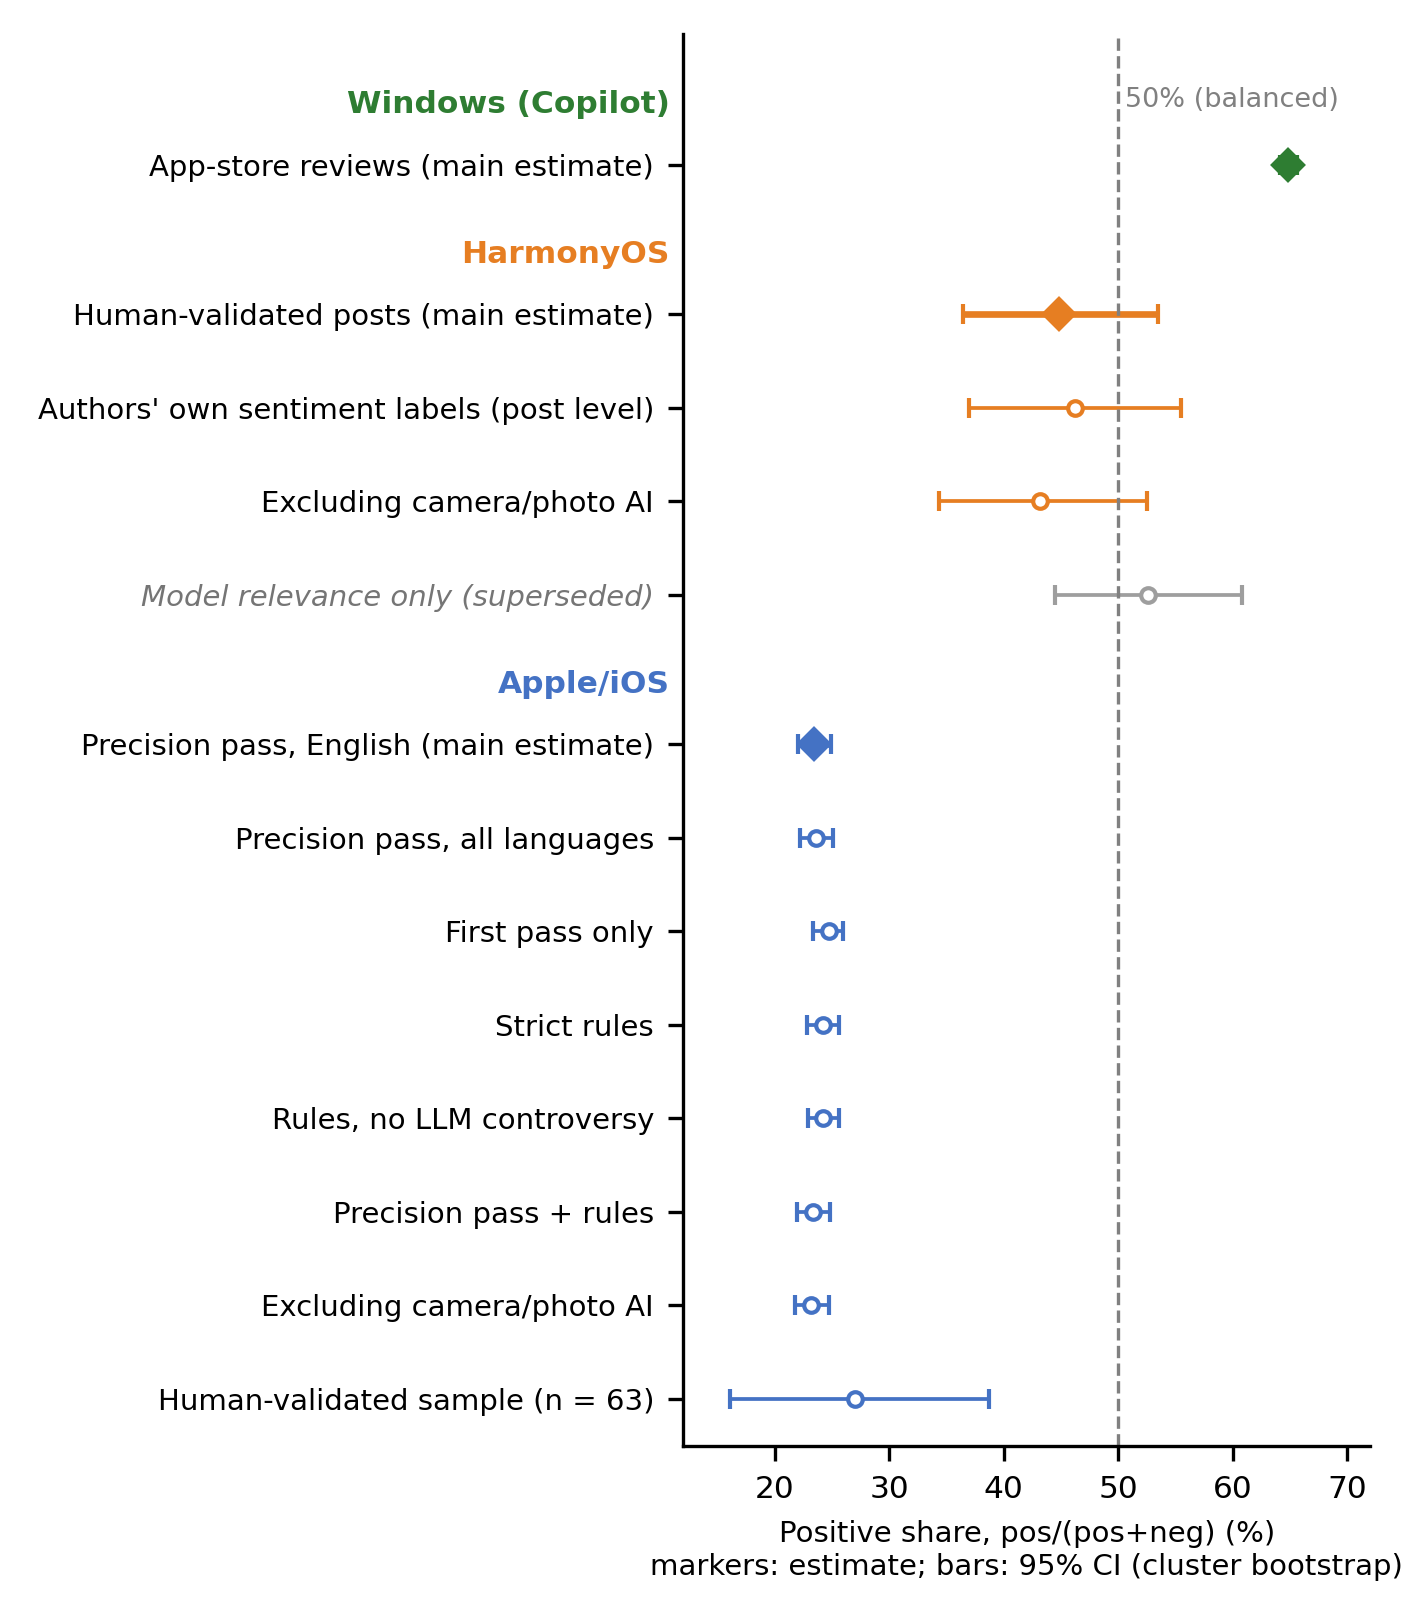
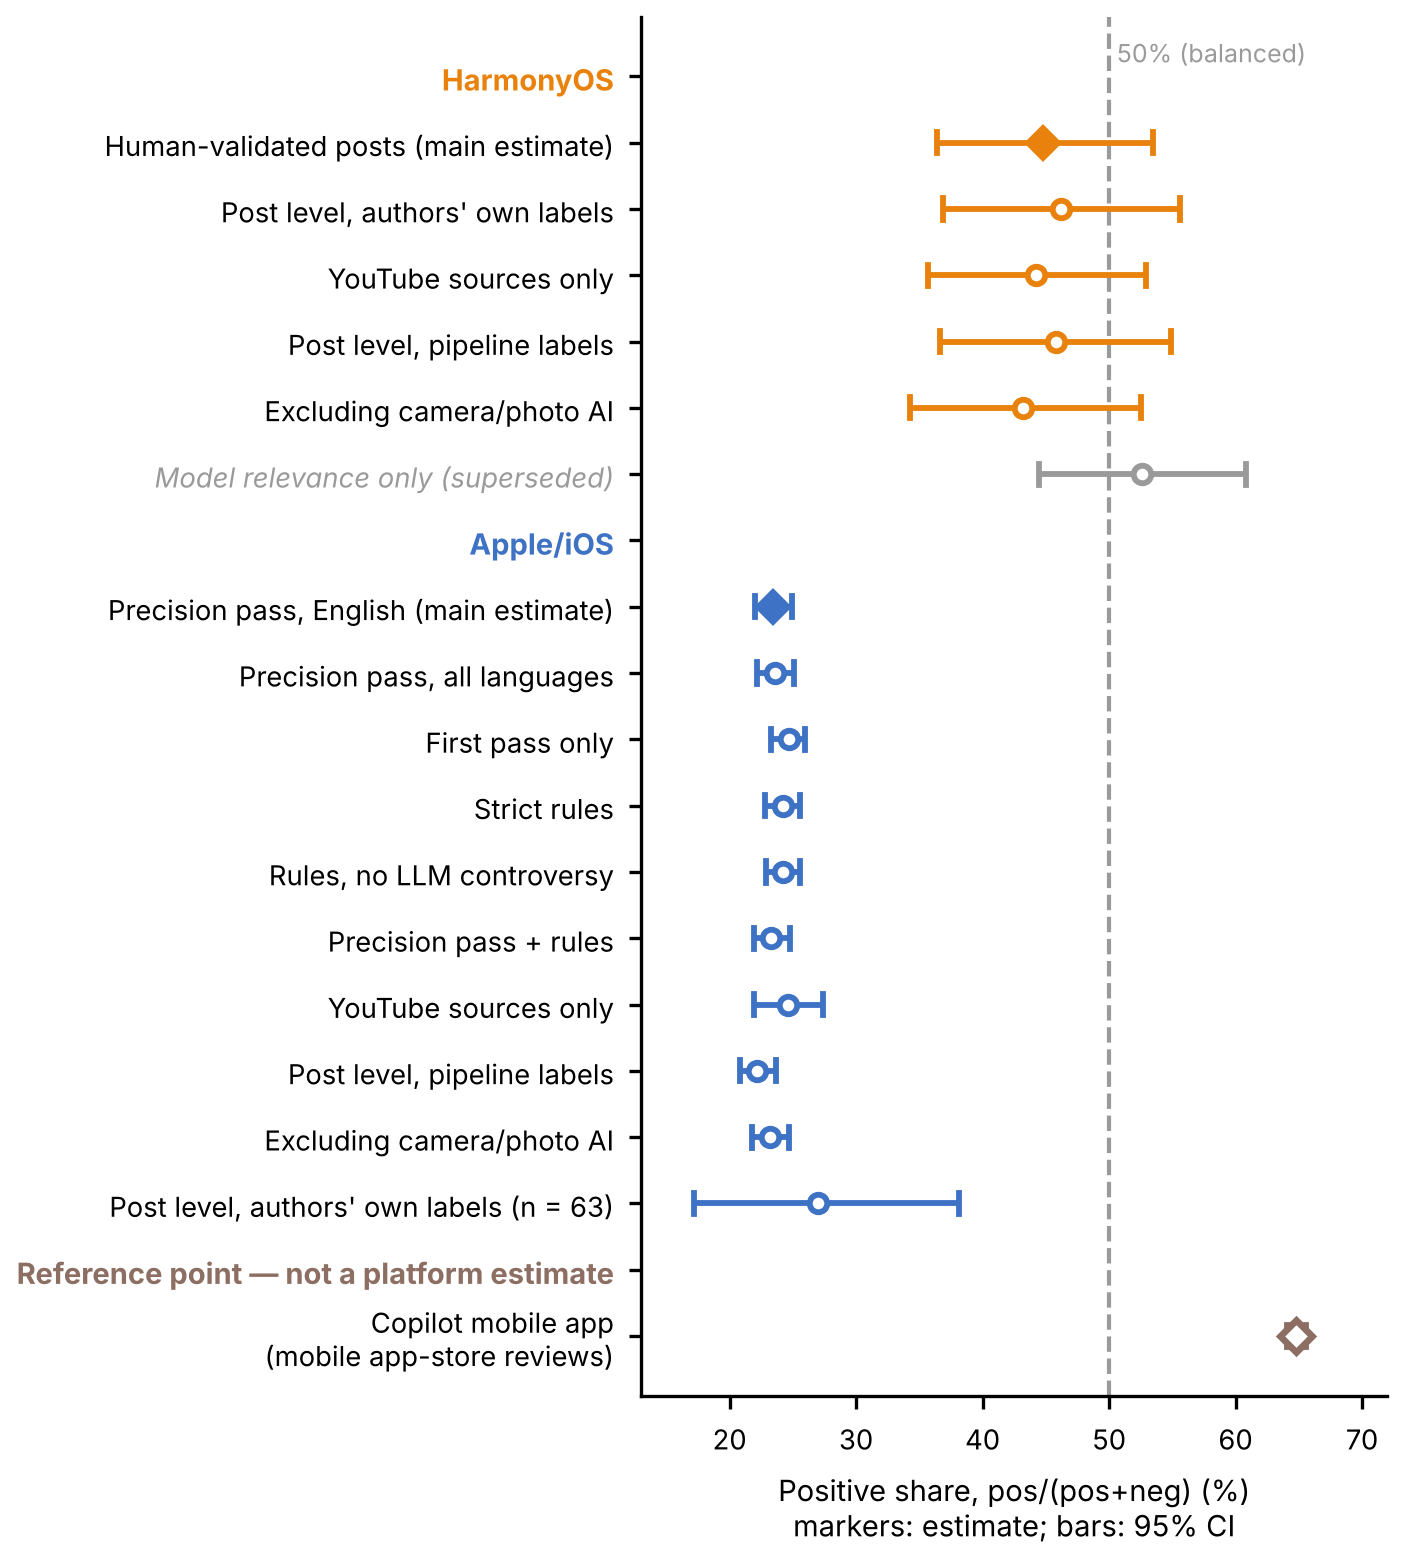
Ver 1.2.0

diff --git a/verify_copilot_figures.py b/verify_copilot_figures.py
@@ -1,0 +1,67 @@
+"""
+Reproduces every Copilot figure reported in the manuscript directly from the
+Chhetri et al. (2025) corpus.
+
+Inputs (obtain from the corresponding author of Chhetri et al. 2025):
+    ai-summary-sentiment-merged-se3.parquet
+    ai-aspect_extraction-pre-processed.parquet
+
+Usage:
+    python verify_copilot_figures.py <dir containing the two parquet files>
+
+Every assertion below corresponds to a number printed in the manuscript.
+"""
+import sys, pathlib
+import pandas as pd
+
+DATA = pathlib.Path(sys.argv[1] if len(sys.argv) > 1 else ".")
+
+sent = pd.read_parquet(DATA / "ai-summary-sentiment-merged-se3.parquet")
+asp = pd.read_parquet(DATA / "ai-aspect_extraction-pre-processed.parquet")
+
+# The corpus-level claim: 292 mobile applications.
+assert sent.app_name.nunique() == 292, sent.app_name.nunique()
+print(f"corpus apps                       : {sent.app_name.nunique()}  (manuscript: 292)")
+
+# Provenance: the Copilot rows are Android packages, not Windows.
+cp_pkgs = sorted(
+    asp[asp.app_name.astype(str).str.contains("Microsoft Copilot|Microsoft 365 Copilot",
+                                              regex=True, na=False)].app_pkg.dropna().unique()
+)
+print(f"Copilot package identifiers       : {cp_pkgs}")
+assert "com.microsoft.copilot" in cp_pkgs
+
+# Note the leading zero-width spaces in the first app name as distributed.
+NAMES = ["Microsoft Copilot", "Microsoft Copilot", "Microsoft 365 Copilot"]
+c = sent[sent.app_name.isin(NAMES)]
+
+pairs = len(c)
+reviews = c.rev_id.nunique()
+pos = int((c["values"] == "positive").sum())
+neg = int((c["values"] == "negative").sum())
+share = 100 * pos / (pos + neg)
+
+print(f"aspect-sentiment pairs            : {pairs:,}   (manuscript: 20,209)")
+print(f"unique reviews                    : {reviews:,}   (manuscript: 15,821)")
+print(f"positive pairs                    : {pos:,}   (manuscript: 13,105)")
+print(f"negative pairs                    : {neg:,}    (manuscript: 7,104)")
+print(f"positive share                    : {share:.2f}%  (manuscript: 64.8%)")
+assert (pairs, reviews, pos, neg) == (20209, 15821, 13105, 7104)
+
+# Imposition vocabulary across ALL negative phrases (Section 5.2.2).
+negdf = c[c["values"] == "negative"].copy()
+negdf["k"] = negdf["keys"].astype(str).str.lower()
+
+BROAD = (r"\bforc|\bunwanted\b|cannot disable|can'?t disable|can not disable|"
+         r"\bdisable\b|\bremove\b|\bopt out\b|\buninstall\b|\bintrusive\b|"
+         r"\bpushy?\b|\bshoved?\b|\bimposed?\b|\bmandator|\bprominen")
+STRICT = (r"\bforc|\bunwanted\b|cannot disable|can'?t disable|\bimposed?\b|"
+          r"\bmandator|\bintrusive\b|\bshoved?\b")
+
+nb = int(negdf.k.str.contains(BROAD, regex=True, na=False).sum())
+ns = int(negdf.k.str.contains(STRICT, regex=True, na=False).sum())
+print(f"imposition phrases (broad)        : {nb} = {100*nb/len(negdf):.2f}%  (manuscript: 72 = 1.0%)")
+print(f"imposition phrases (strict)       : {ns} = {100*ns/len(negdf):.2f}%  (manuscript: 63 = 0.9%)")
+assert (nb, ns) == (72, 63)
+
+print("\nAll manuscript figures reproduced.")

diff --git a/README.md b/README.md
@@ -2,23 +2,34 @@
 
 [![DOI](https://zenodo.org/badge/DOI/10.5281/zenodo.23098900.svg)](https://doi.org/10.5281/zenodo.23098900)
 
-Replication package for **"When Convenience Meets Risk: Evaluating Usability, Security, and AI Reliability Across Modern Operating Systems"** by Mohammad Alhawarat and Qasem Nijem (Al-Ahliyya Amman University), submitted to *Empirical Software Engineering*.
+Replication package for **"When Convenience Meets Risk: Evaluating User Sentiment, Security, and AI Reliability Across Modern Operating Systems"** by Mohammad Alhawarat and Qasem Nijem (Al-Ahliyya Amman University), submitted to *Empirical Software Engineering*.
 
-The study maps operating-system evolution (2015–2026) onto three non-functional requirements (usability, security/privacy, and AI reliability/trustworthiness) across Apple/iOS, HarmonyOS, Fuchsia, and Windows.
+The study maps operating-system evolution (2015–2026) onto three non-functional requirements (user sentiment toward AI features, security/privacy, and AI reliability/trustworthiness) across Apple/iOS, HarmonyOS, Fuchsia, and Windows.
+
+> **Note on folder names.** Folders are named `03_Usability/...` for link and DOI stability with earlier releases. The construct they hold is *user sentiment toward AI features* — the positive share of expressed opinions — which bears on the satisfaction facet of quality in use and does not measure task success, efficiency, or error rates. See the paper's Section 4.3.
 
 ## Key results
 
 | NFR | Method | Main result |
 |---|---|---|
-| AI reliability | 80-item dual-rated test protocol on Windows Copilot | 82.5% accuracy overall; 55% on disclosure/consent (κ = 0.61) |
-| Security/privacy | 9-criterion dual-rated documentary rubric, 3 time points | 2025/26: Apple 100%, Windows 94.4%, HarmonyOS 94.4%, Fuchsia 44.4% (κ = 0.81) |
-| Usability | LLM aspect-sentiment analysis, cluster-robust, human-validated | Positive share: Windows Copilot 64.8%, HarmonyOS 44.8%, Apple Intelligence 23.4% |
+| AI reliability | 80-item dual-rated test protocol on Windows Copilot | 82.5% accuracy overall [72.7, 89.3]; 55.0% on disclosure/consent [34.2, 74.2]; κ = 0.61 |
+| Security/privacy | 9-criterion dual-rated documentary rubric, 3 time points | 2025/26: Apple 100%, Windows 94.4%, HarmonyOS 94.4%, Fuchsia 44.4%; κ = 0.62 on the 72 assessable cells (κ<sub>w</sub> = 0.69) |
+| User sentiment | LLM aspect-sentiment analysis, cluster-robust, human-validated | Positive share: HarmonyOS 44.8% [36.4, 53.5] vs Apple Intelligence 23.4% [22.0, 24.9]; difference 21.3 pp [12.9, 30.0] |
 
-Human validation of the usability pipeline: inter-rater κ = 0.896 (relevance) and 0.934 (sentiment).
+Human validation of the sentiment pipeline: inter-rater κ = 0.896 (relevance) and 0.934 (sentiment).
 
-## Reproduce the usability results
+**Two reporting points that matter for reading these numbers:**
 
-Open [`03_Usability/Apple_HarmonyOS_Analysis/notebooks/Reproduce_Usability_Results.ipynb`](03_Usability/Apple_HarmonyOS_Analysis/notebooks/Reproduce_Usability_Results.ipynb) in Google Colab, set `BASE` to the `Apple_HarmonyOS_Analysis` folder, and run all cells. It recomputes every Apple/HarmonyOS usability number in the paper from the released files alone, with no API calls, in about a minute.
+- **The security/privacy κ.** Earlier releases reported κ = 0.81 with 87.0% raw agreement over all 108 cells. That figure is inflated: 36 of the 108 cells are not-applicable for both raters because the platform did not exist at that time point, and agreeing on those is automatic. The paper now reports agreement on the **72 assessable cells** as the primary figure: 58/72 = 80.6% raw, κ = 0.62, linear-weighted κ<sub>w</sub> = 0.69. The 108-cell figure is retained in the paper for completeness only.
+- **The Copilot corpus is not Windows.** The Copilot slice of the Chhetri et al. (2025) corpus consists of reviews of the Microsoft Copilot and Microsoft 365 **mobile apps** — the rows carry the Android package identifiers `com.microsoft.copilot` and `com.microsoft.office.officehubrow`. Its 64.8% positive share [64.1, 65.6] is reported in the paper as a **reference point**, not as a platform estimate, and is not ranked against the two platform figures above. This study collected no user-sentiment data for Windows.
+
+## Reproduce the results
+
+**Apple/HarmonyOS sentiment.** Open [`03_Usability/Apple_HarmonyOS_Analysis/notebooks/Reproduce_Usability_Results.ipynb`](03_Usability/Apple_HarmonyOS_Analysis/notebooks/Reproduce_Usability_Results.ipynb) in Google Colab, set `BASE` to the `Apple_HarmonyOS_Analysis` folder, and run all cells. It recomputes every Apple/HarmonyOS number in the paper from the released files alone, with no API calls, in about a minute.
+
+**Copilot figures.** Run [`verify_copilot_figures.py`](verify_copilot_figures.py) against the two Chhetri et al. parquet files (which must be requested from their authors — see below). It asserts every Copilot number in the paper, including the provenance package identifiers and the imposition-vocabulary counts, and exits non-zero on any mismatch.
+
+**Security/privacy and AI reliability.** Both workbooks carry each rater's independent scores alongside the reconciled values, so every κ and every cell score can be recomputed directly; see [`README_details.txt`](README_details.txt).
 
 ## Contents
 
@@ -26,19 +37,19 @@ Open [`03_Usability/Apple_HarmonyOS_Analysis/notebooks/Reproduce_Usability_Resul
 |---|---|
 | [`01_AI_Reliability/`](01_AI_Reliability) | Windows Copilot test set (80 prompts, ground truth, both raters' scores, reconciliation notes); Rater 1's independent scores for reproducing κ |
 | [`02_Security_Privacy/`](02_Security_Privacy) | Security/privacy rubric: 108 cells with both raters' scores, evidence sources, reconciliation notes, and the auto-calculating trend table |
-| [`03_Usability/Copilot_Quantitative_Analysis/`](03_Usability/Copilot_Quantitative_Analysis) | Windows Copilot clustering notebook, themes, and figure (the source corpus of Chhetri et al. 2025 must be requested from its authors) |
+| [`03_Usability/Copilot_Quantitative_Analysis/`](03_Usability/Copilot_Quantitative_Analysis) | Copilot **mobile-app** clustering notebook, themes, and figure (the source corpus of Chhetri et al. 2025 must be requested from its authors) |
 | [`03_Usability/Apple_HarmonyOS_Analysis/`](03_Usability/Apple_HarmonyOS_Analysis) | 28,422 collected posts (URLs and labels only), aspect-sentiment pairs, human-validation labels and rulebook, pipeline and reproduction notebooks, results, figures |
 
-File-by-file descriptions of every folder are in [`README_details.txt`](README_details.txt); the two usability folders also have their own READMEs.
+File-by-file descriptions of every folder are in [`README_details.txt`](README_details.txt); the two sentiment folders also have their own READMEs. Release-to-release changes are in [`CHANGELOG.md`](CHANGELOG.md).
 
 ## Data notes
 
 - **No raw post text.** Posts are released "dehydrated": identified by public URL, with all labels and derived data. YouTube's API terms restrict redistribution of stored comments, and usernames raise privacy concerns. Text can be re-fetched from the URLs through the platforms' official APIs.
-- **Windows Copilot corpus.** It belongs to Chhetri et al. (2025, IEEE Big Data) and is not redistributed here.
+- **The Copilot mobile-app corpus** belongs to Chhetri et al. (2025, IEEE Big Data) and is not redistributed here.
 
 ## Citation
 
-Archived at Zenodo: [10.5281/zenodo.23098900](https://doi.org/10.5281/zenodo.23098900) (version 1.0.0). Use the **"Cite this repository"** button (generated from `CITATION.cff`), and please also cite the article.
+Archived at Zenodo: [10.5281/zenodo.23098900](https://doi.org/10.5281/zenodo.23098900). Use the **"Cite this repository"** button (generated from `CITATION.cff`), and please also cite the article.
 
 ## License
 

diff --git a/CHANGELOG.md b/CHANGELOG.md
@@ -1,0 +1,33 @@
+# Changelog
+
+## 1.2.0 — 2026-10-03
+
+Corrections and additions following a pre-submission review of the manuscript by six colleagues, and a full re-verification of every reported figure against its primary source. Three of these changes correct statements in earlier releases; they are listed first and in full, because anyone who read release 1.0.0 or 1.1.0 should know what changed.
+
+### Corrections
+
+**The Copilot corpus is mobile-app data, not Windows.** Releases 1.0.0 and 1.1.0 described `03_Usability/Copilot_Quantitative_Analysis/` as the Windows result and its 64.8% positive share as a Windows platform estimate. That was wrong. The Chhetri et al. (2025) corpus studies AI-powered *mobile* apps, and its Copilot rows carry the Android package identifiers `com.microsoft.copilot` and `com.microsoft.office.officehubrow`. The figure is now reported as a reference point for a voluntarily installed vendor assistant, is not comparable with the Apple and HarmonyOS estimates, and is not ranked against them. This study collected no user-sentiment data for Windows. Folder and file names are unchanged for link stability; the documentation inside them is corrected.
+
+**The security/privacy inter-rater agreement was overstated.** Earlier releases reported κ = 0.81 with 87.0% raw agreement across all 108 rubric cells. Thirty-six of those cells are not-applicable for both raters because the platform did not exist at that time point, and agreement on them is automatic. The primary figure is now agreement on the 72 **assessable** cells: 58/72 = 80.6% raw, κ = 0.62, linear-weighted κ<sub>w</sub> = 0.69. The underlying scores are unchanged; only the summary statistic was wrong. The 108-cell figure is retained for completeness and clearly labelled.
+
+**The three-method triangulation claim is withdrawn.** Earlier documentation described the "Forced Copilot integration" theme as one of three independent sources corroborating a consent-and-control finding, and the preliminary qualitative pass as another. That framing overstated what the evidence supports. The qualitative pass had no sampling frame, no query record, no second rater and no coding scheme. The Copilot theme is heterogeneous and comes from a mobile application, so it cannot corroborate a claim about the Windows shell. Measured directly against the raw corpus, imposition vocabulary appears in 72 of 7,104 negative phrases (1.0%), not the 1.9% the cluster size suggests. The consent finding now rests on the structured AI-reliability protocol, where it is measured rather than observed.
+
+### Changes
+
+- Title updated throughout to *"Evaluating User Sentiment, Security, and AI Reliability Across Modern Operating Systems"*. The NFR 1 construct is named user sentiment rather than usability: it is the positive share of expressed opinions, which bears on satisfaction and does not measure task success, efficiency, or error rates.
+- `README.md`, `README_details.txt`, `CITATION.cff` and the Copilot provenance note updated for all of the above.
+- The stale limitation about HarmonyOS theme shares being pre-validation was removed; they were re-derived from the 302 human-validated posts in release 1.1.0.
+
+### Additions
+
+- `verify_copilot_figures.py` — reproduces every Copilot number in the paper directly from the two Chhetri et al. parquet files, including the package-identifier provenance check and the imposition-vocabulary counts. Asserts each value and exits non-zero on mismatch.
+- `03_Usability/Apple_HarmonyOS_Analysis/results/platform_comparison_sensitivity.csv` — the Apple–HarmonyOS comparison under four variants (main pair-level; YouTube-only, which removes the source confound; post-level with pipeline labels; post-level with the authors' own blind labels), each with cluster-bootstrap intervals for both platforms and for the difference itself. The difference excludes zero under all four.
+- `03_Usability/Apple_HarmonyOS_Analysis/figures/fig_usability_forest.png` — replaced. The Copilot row is now separated under a "reference point" heading rather than appearing as the top row of a ranking, and the new sensitivity variants are included.
+
+## 1.1.0 — 2026-10-02
+
+HarmonyOS themes re-derived from the 302 human-validated posts (12 positive and 3 negative merged themes), replacing the pre-validation version in 1.0.0. Adds the validated-themes notebook, results and dendrogram.
+
+## 1.0.0 — 2026-10-02
+
+Initial release: AI-reliability test set and both raters' scores; security/privacy rubric with both raters' scores and reconciliation notes; Apple/HarmonyOS collection, labels, human validation and reproduction notebook; Copilot clustering outputs.
